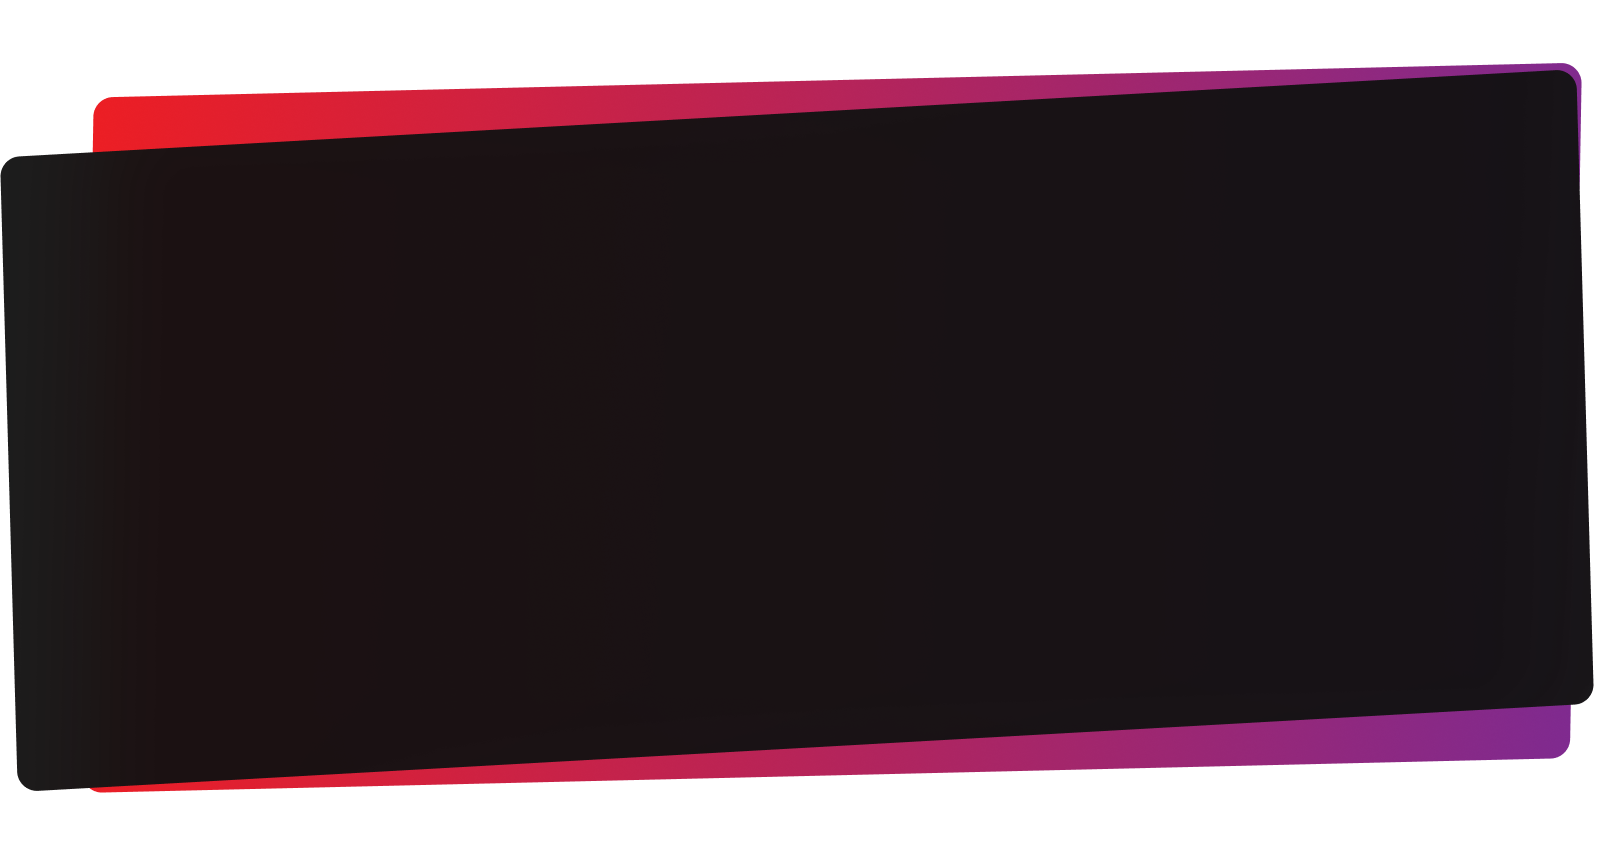
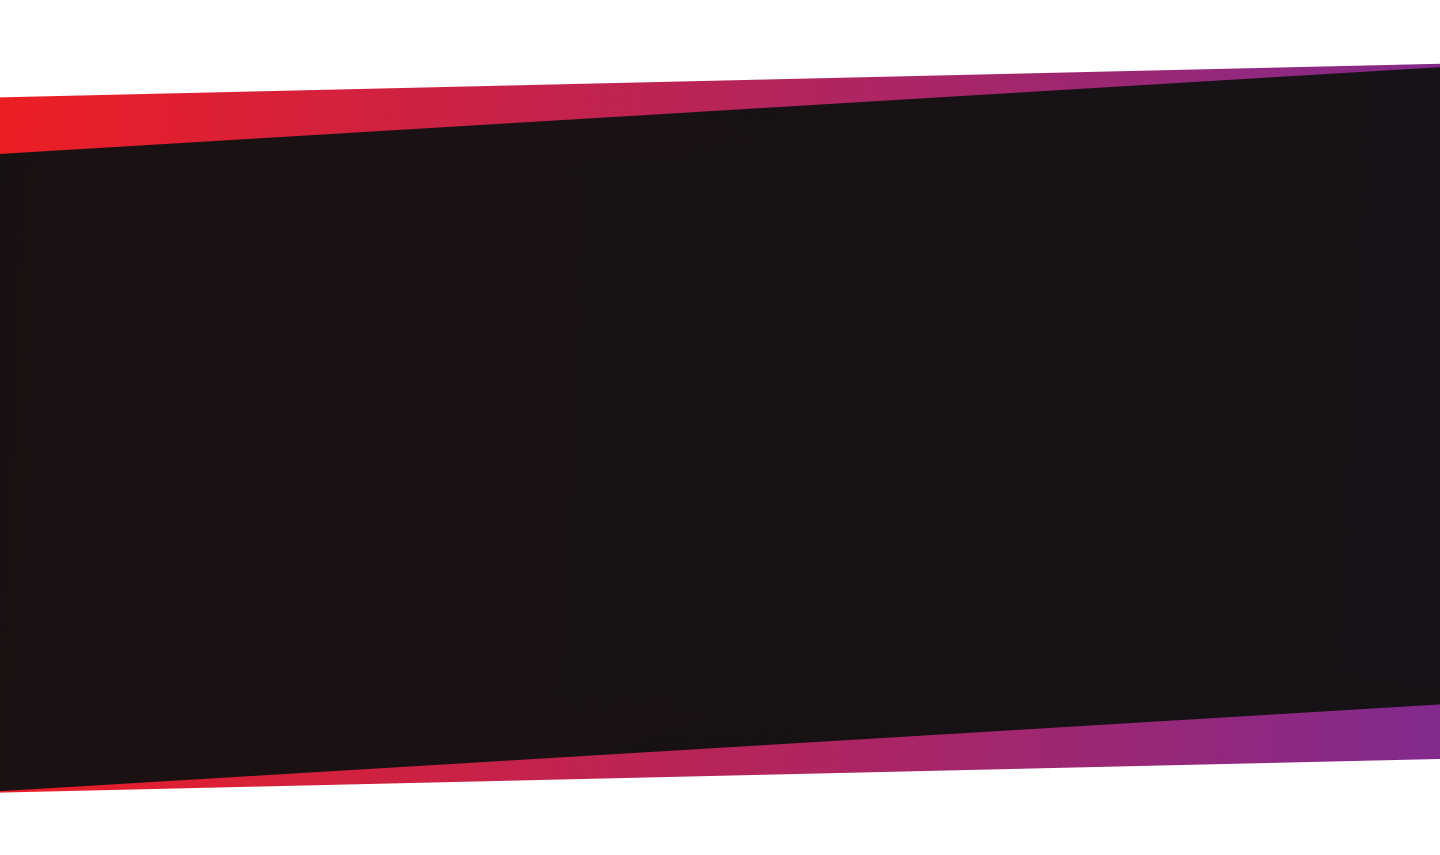
Section images fixed

diff --git a/app/_shared/components/home/heroBanner/index.tsx b/app/_shared/components/home/heroBanner/index.tsx
@@ -87,7 +87,7 @@ const HeroBanner = ({
               "grid md:grid-cols-2 grid-cols-1 gap-16 h-full "
             )}
           >
-            <div className="md:order-1 order-2 flex flex-col md:items-start items-center sm:justify-center justify-end h-full xs:gap-8 gap-4">
+            <div className="md:order-1 order-2 flex flex-col md:items-start items-center sm:justify-center justify-end h-full xs:gap-8 gap-4 mr-auto">
               {contentIcon && (
                 <div className={classNames(styles.heroContentIcon)}>
                   <Image src={Images.Speaker} alt="icon" />
@@ -103,7 +103,7 @@ const HeroBanner = ({
                     <span
                       className={classNames(
                         styles.animatedText,
-                        "xs:w-10/12 w-full mr-auto",
+                        "xs:w-10/12 w-full",
                         { "opacity-0": isAnimating },
                         "transition-all"
                       )}

diff --git a/app/_shared/components/home/heroBanner/style.module.scss b/app/_shared/components/home/heroBanner/style.module.scss
@@ -165,6 +165,13 @@
         animation: fadeInUp 1s forwards !important;
         transition: opacity 1s ease-in-out, transform 1s ease-in-out !important;
         line-height: default;
+        max-width: 500px !important;
+        text-align: left !important;
+
+        @media screen and (max-width: 768px) {
+          text-align: center !important;
+          max-width: auto !important;
+        }
 
         &.opacity-0 {
           opacity: 0;

diff --git a/app/_shared/components/socialMedia/socialMediaScope/style.module.scss b/app/_shared/components/socialMedia/socialMediaScope/style.module.scss
@@ -23,6 +23,11 @@
         // @include RP(("max-width": 700), 1);
 
 
+        @media screen and (min-width: 1800px) {
+          width: 800px !important;
+          top: 10%;
+        }
+
         @media screen and (min-width: 2000px) {
           width: 800px !important;
           top: 10%;

diff --git a/app/_shared/components/webAndMobile/targetSection/style.module.scss b/app/_shared/components/webAndMobile/targetSection/style.module.scss
@@ -7,8 +7,9 @@
   height: 100%;
   min-height: 100%;
   background-size: cover;
+  background-position: center;
   background-repeat: no-repeat;
-  background-position: top left;
+  // background-position: bottom;
   position: relative;
 
   &::before {
